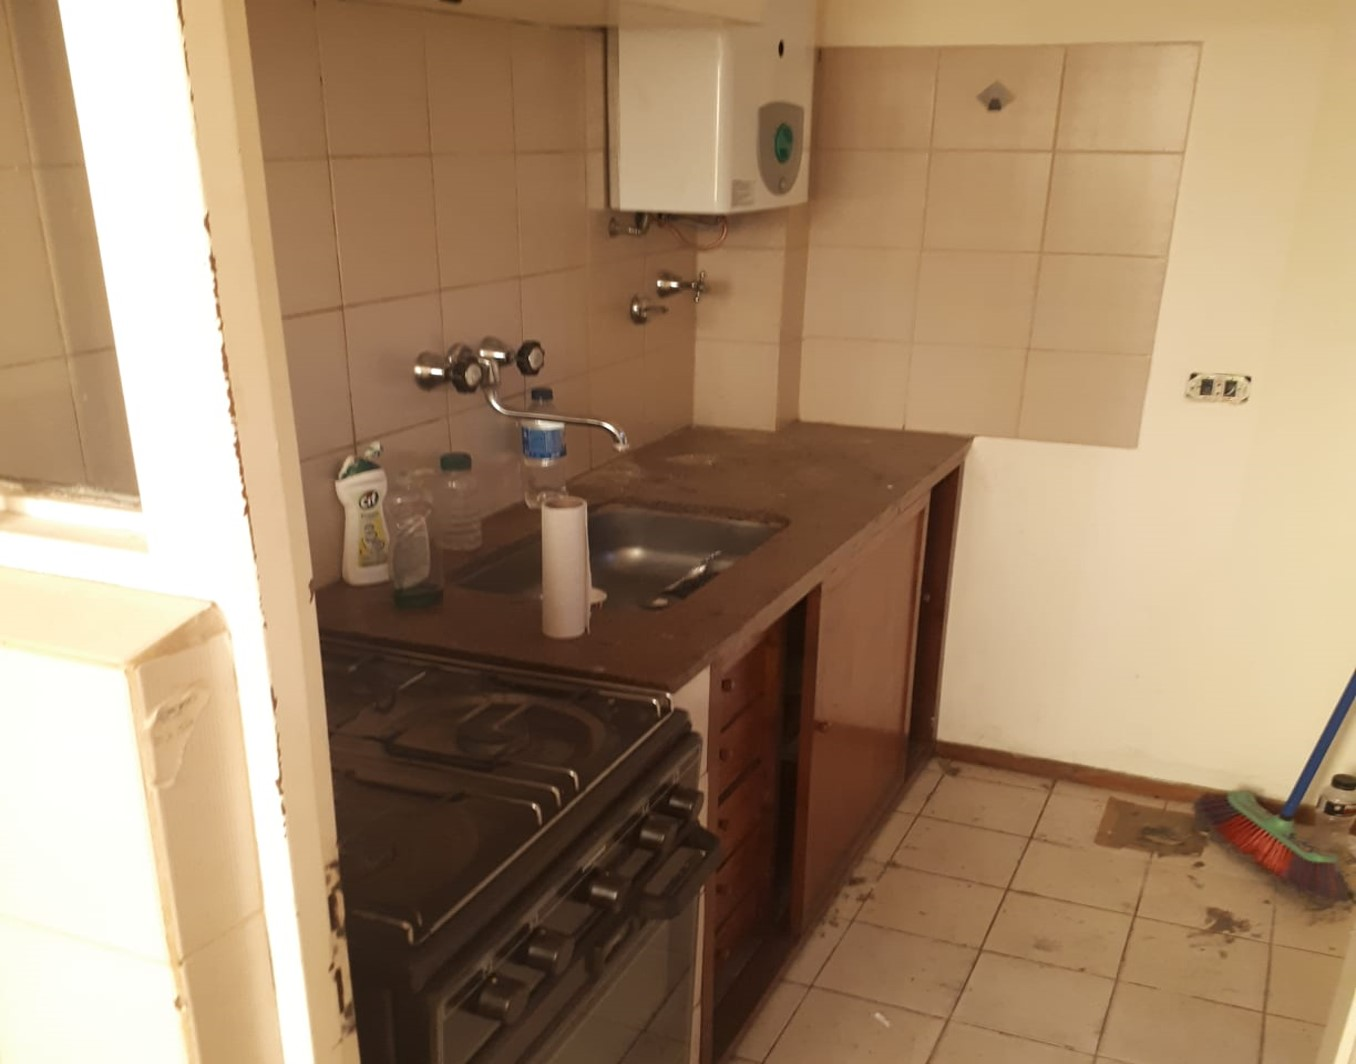
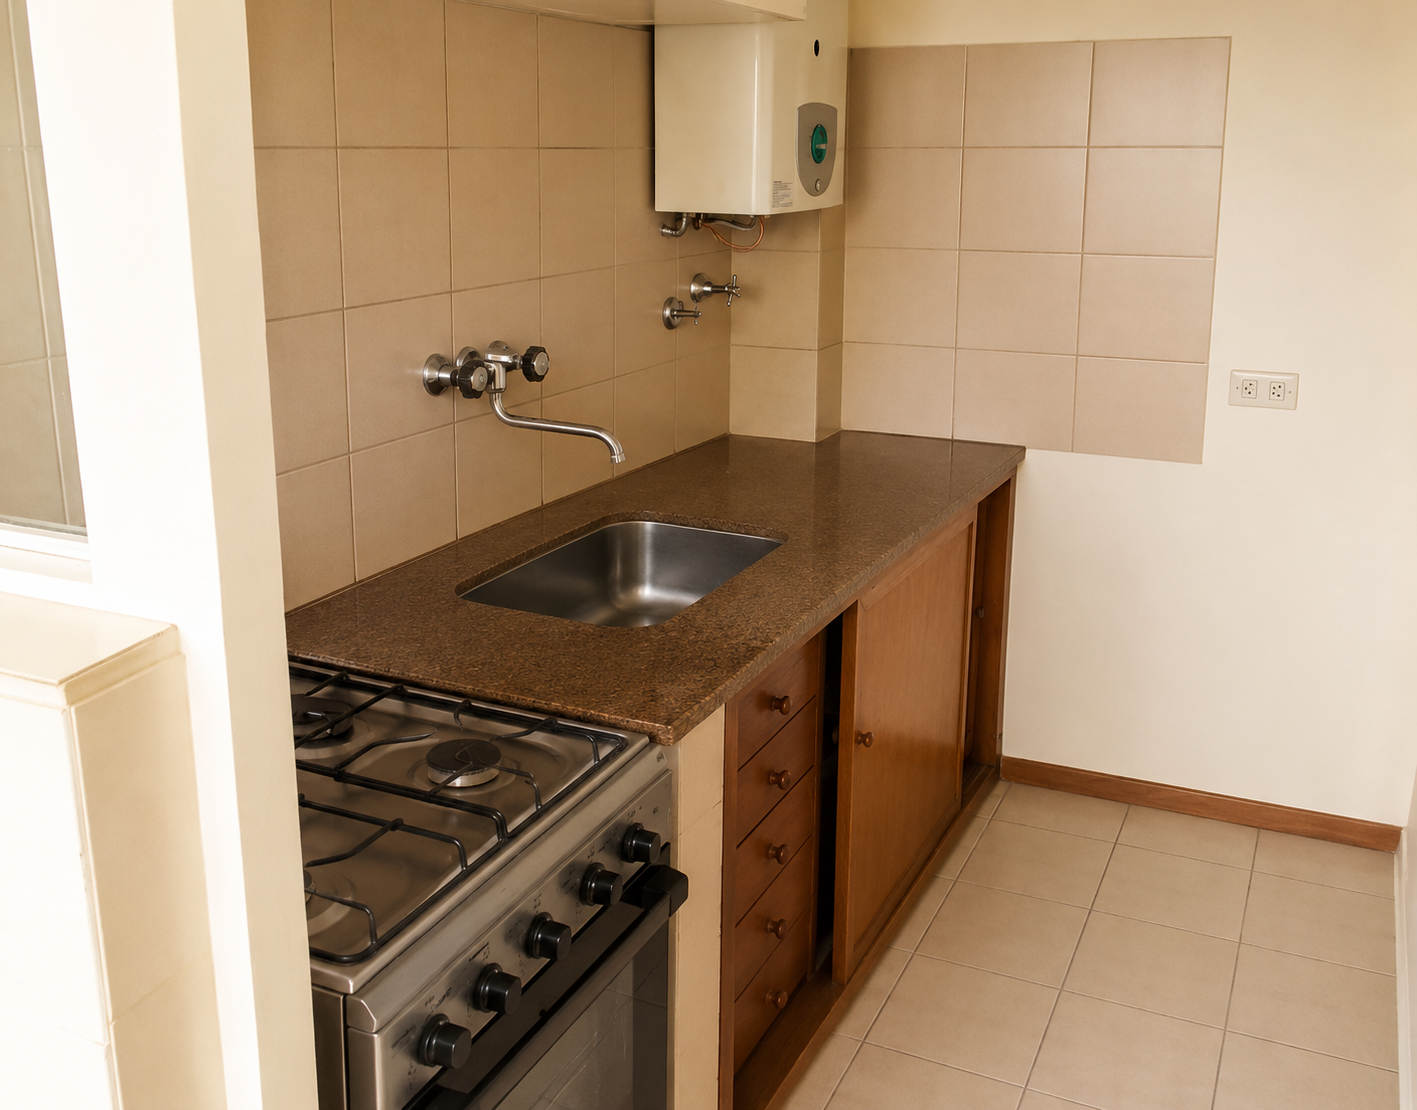
update: propiedades

diff --git a/propiedades.html b/propiedades.html
@@ -299,7 +299,15 @@ const datos = await response.json();
 
 // Forzamos validación de tipo Array
 if (Array.isArray(datos)) {
-todasLasPropiedades = datos;
+todasLasPropiedades = datos.sort((a,b)=>{
+if(a.estado==="alquilada" && b.estado!=="alquilada"){
+return 1;
+}
+if(a.estado!=="alquilada" && b.estado==="alquilada"){
+return -1;
+}
+return 0;
+});
 renderizarCards(todasLasPropiedades);
 } else {
 console.error("Estructura de datos inválida devuelta por el JSON:", datos);
@@ -331,21 +339,93 @@ const fotoPortada = (prop.imagenes && prop.imagenes.length > 0) ? prop.imagenes[
 const supCubierta = prop.sup_cubierta ? prop.sup_cubierta : '-';
 
 card.innerHTML = `
+<div style="position:relative;overflow:hidden;">
+
+${prop.estado==="alquilada" ? `
+<div style="
+position:absolute;
+top:18px;
+left:-35px;
+width:180px;
+padding:8px;
+background:rgba(80,80,80,.5);
+color:white;
+font-size:11px;
+font-weight:bold;
+text-align:center;
+transform:rotate(-35deg);
+z-index:20;
+backdrop-filter:blur(4px);
+">
+PROPIEDAD ALQUILADA
+</div>
+
+`:''}
 <img src="${fotoPortada}" alt="${prop.titulo}" class="prop-card-img">
-<div style="padding: 20px;">
-<span class="prop-tag">${prop.operacion}</span>
-<h3 style="font-size: 16px; min-height: 44px; display: -webkit-box; -webkit-line-clamp: 2; -webkit-box-orient: vertical; overflow: hidden; color: var(--color-gris); line-height: 1.4;">${prop.titulo}</h3>
-<p style="font-size: 13px; color: #777; margin-top: 5px; display: flex; align-items: center; gap: 4px;">
-<i data-lucide="map-pin" style="width:14px; height:14px; color: var(--color-principal); flex-shrink: 0;"></i> ${prop.ubicacion}
+</div>
+
+<div style="padding:20px;">
+<span class="prop-tag">
+
+${prop.operacion}
+
+</span>
+
+<h3 style="
+font-size:16px;
+min-height:44px;
+display:-webkit-box;
+-webkit-line-clamp:2;
+-webkit-box-orient:vertical;
+overflow:hidden;
+color:var(--color-gris);
+line-height:1.4;">
+
+${prop.titulo}
+</h3>
+<p style="
+font-size:13px;
+color:#777;
+margin-top:5px;
+display:flex;
+align-items:center;
+gap:4px;">
+
+<i data-lucide="map-pin"
+style="
+width:14px;
+height:14px;
+color:var(--color-principal);
+flex-shrink:0;">
+</i>
+
+${prop.ubicacion}
 </p>
-<p class="prop-price">${prop.precio}</p>
+<p class="prop-price">
+
+${prop.precio}
+</p>
 <div class="prop-features">
-<div class="feature-item"><i data-lucide="bed" style="width:16px;"></i> <span>${prop.dormitorios} Dorm.</span></div>
-<div class="feature-item"><i data-lucide="bath" style="width:16px;"></i> <span>${prop.banos} Baños</span></div>
-<div class="feature-item"><i data-lucide="maximize" style="width:16px;"></i> <span>${supCubierta}</span></div>
+<div class="feature-item">
+<i data-lucide="bed" style="width:16px;"></i>
+
+<span>${prop.dormitorios} Dorm.</span>
+</div>
+
+<div class="feature-item">
+<i data-lucide="bath" style="width:16px;"></i>
+<span>${prop.banos} Baños</span>
+</div>
+
+<div class="feature-item">
+<i data-lucide="maximize" style="width:16px;"></i>
+<span>${supCubierta}</span>
+</div>
+
 </div>
 </div>
 `;
+
 container.appendChild(card);
 });
 lucide.createIcons();

diff --git a/index.html b/index.html
@@ -304,15 +304,11 @@ color:white;
 }
 
 .footer-contenedor{
-
 max-width:1200px;
 margin:auto;
-
 display:grid;
-
 grid-template-columns:
 repeat(auto-fit,minmax(250px,1fr));
-
 gap:40px;
 }
 
@@ -546,6 +542,11 @@ await response.json();
 const destacadas=
 propiedades
 .filter(p=>p.destacada===true)
+.sort((a,b)=>{
+if(a.estado==="alquilada" && b.estado!=="alquilada") return 1;
+if(a.estado!=="alquilada" && b.estado==="alquilada") return -1;
+return 0;
+})
 .slice(0,3);
 
 const container=
@@ -554,18 +555,46 @@ document.getElementById(
 );
 
 destacadas.forEach(prop=>{
-container.innerHTML+=`
+
+container.innerHTML += `
 
 <a class="prop-card"
-href="detalle.html?id=${prop.id}">
+href="detalle.html?id=${prop.id}"
+style="position:relative;">
+
+${(prop.estado || "disponible").toLowerCase()==="alquilada" ? `
+
+<div style="
+position:absolute;
+top:18px;
+left:-35px;
+width:180px;
+padding:8px;
+background:rgba(80,80,80,.5);
+color:white;
+font-size:11px;
+font-weight:bold;
+text-align:center;
+transform:rotate(-35deg);
+z-index:5;
+backdrop-filter:blur(4px);
+">
+
+PROPIEDAD ALQUILADA
+</div>
+
+` : ''}
 <img src="${prop.imagenes[0]}">
 <div class="prop-body">
+
 <span class="prop-tag">
 ${prop.operacion}
 </span>
+
 <h3>
 ${prop.titulo}
 </h3>
+
 <div class="prop-price">
 ${prop.precio}
 </div>
@@ -577,6 +606,7 @@ ${prop.ubicacion}
 </a>
 `;
 });
+
 document.getElementById("anio").innerText=
 new Date().getFullYear();
 lucide.createIcons();

diff --git a/detalle.html b/detalle.html
@@ -588,6 +588,30 @@ document.getElementById('prop-supcub').innerText=prop.sup_cubierta||"-";
 document.getElementById('prop-descripcion').innerText=
 prop.descripcion || "Sin descripción";
 
+/* ===== ESTADO DISPONIBLE / ALQUILADA ===== */
+
+const boton=
+document.getElementById("link-wsp");
+
+if(prop.estado==="alquilada"){
+
+boton.innerHTML=`
+<i data-lucide="x-circle"></i>
+No disponible
+`;
+boton.removeAttribute("href");
+boton.style.background="#7a7a7a";
+boton.style.cursor="not-allowed";
+boton.style.pointerEvents="none";
+}else{
+const msg=encodeURIComponent(
+`Hola, quisiera recibir información sobre la propiedad código ${prop.codigo}: ${prop.titulo}`
+);
+boton.href=
+`https://wa.me/543364599037?text=${msg}`;
+}
+
+/* ===== CARACTERÍSTICAS TRUE ===== */
 
 const features=
 document.getElementById("features-grid");